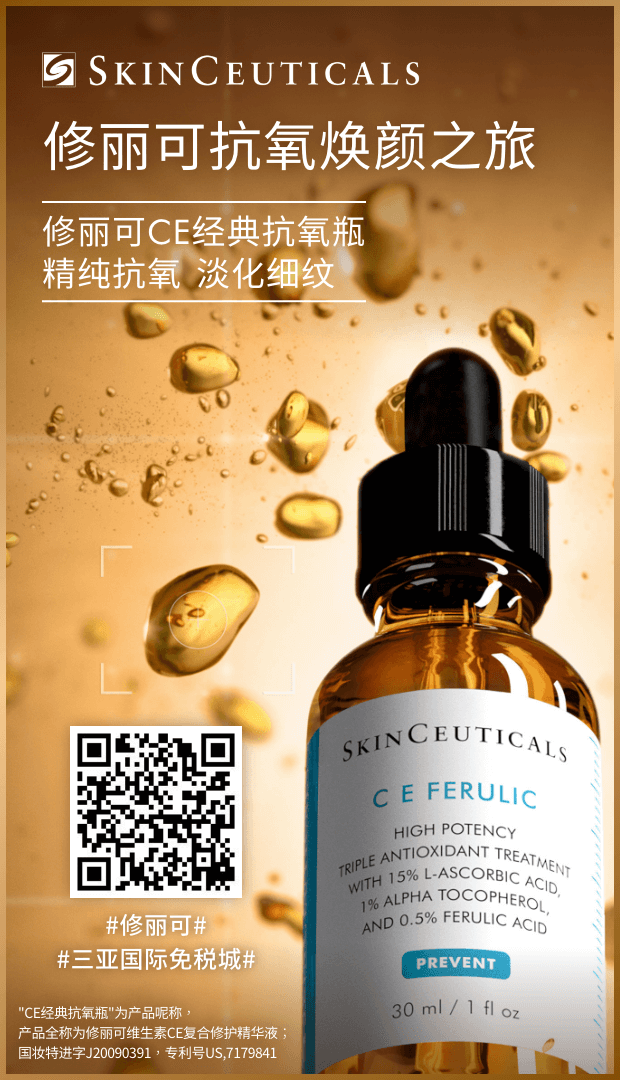
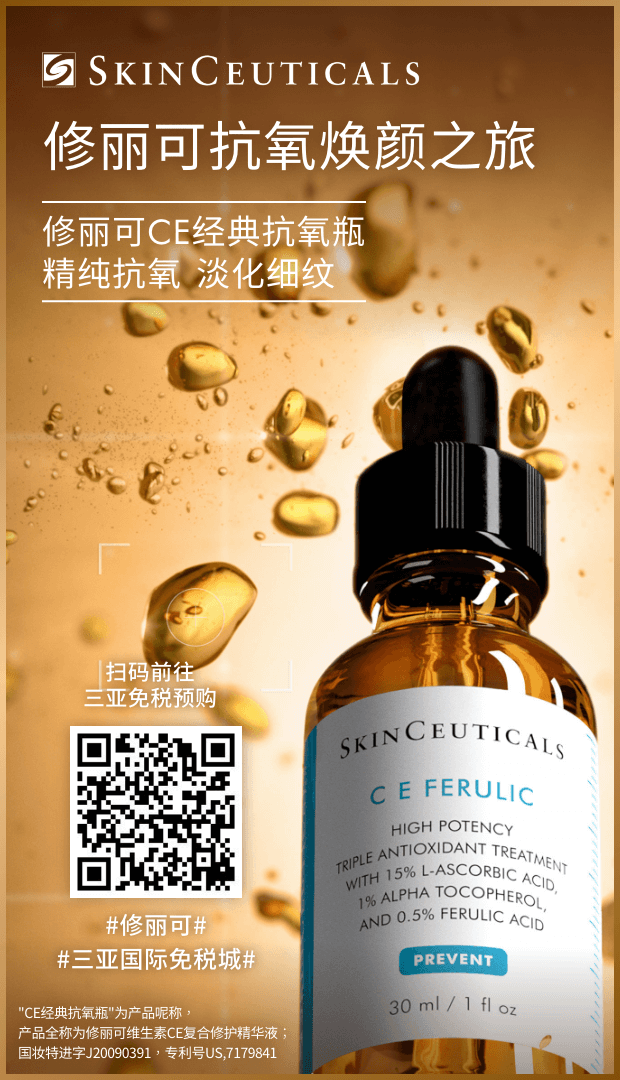
improve share page css issue

diff --git a/src/pages/SharePage/index.jsx b/src/pages/SharePage/index.jsx
@@ -19,6 +19,7 @@ import goldElementBg from '../../assets/prize_gold_element_bg.png';
 import prizeCardOutline from '../../assets/prize_card_outline.png';
 import prizeCardNoCamera from '../../assets/prize_card_no_camera.png';
 import shopBtn from '../../assets/shop_btn.png';
+import resultTag from '../../assets/result_tag.png';
 // const BrandLogo = `${config.assetsUrl}/Logo_white.png`;
 // const faceBefore = `${config.assetsUrl}/prize_face_picture_before.png`;
 // const faceAfter = `${config.assetsUrl}/prize_face_picture_after.png`;
@@ -119,10 +120,12 @@ const SharePage = () => {
             </div>
             <div id="img-group">
               <img id="skin-c-bottle" onLoad={() => onImageLoad('skin-c-bottle')} src={skinCBottle} />
-              <div id="hash-text">
+              <img id="hash-text" src={resultTag} />
+              {/* <div id="hash-text">
                 <p>#修丽可#</p>
                 <p>#三亚国际免税城#</p>
-              </div>
+              </div> */}
+              {/* <div id="qr-code-text">扫码前往<br />三亚免税预购</div> */}
               <img id="prize-card-qr-code" onLoad={() => onImageLoad('qr-code')} src={prizeCardQRcode} />
             </div>
           </div>
@@ -195,7 +198,7 @@ const SharePage = () => {
             </div>
           </div>
         </div>
-        <img id="shop-btn" src={shopBtn} onClick={() => window.open("https://m.cdfgsanya.com/wap/index.html#/tabs/index/skinceuticalsIndex?random=91904560019745118460",'_blank')}/>
+        <img id="shop-btn" src={shopBtn} onClick={() => window.open("https://ad.doubleclick.net/ddm/clk/485169250;292072506;i",'_blank')}/>
         {/* <a id="shop-btn" href="https://m.cdfgsanya.com/wap/index.html#/tabs/index/skinceuticalsIndex?random=91904560019745118460" target="_blank">
         </a> */}
       </section>

diff --git a/src/pages/SharePage/share.css b/src/pages/SharePage/share.css
@@ -118,10 +118,11 @@
   position: absolute;
   right: 1.2vh;
   bottom: 3vh;
-  width: 9vh;
-  height: 9vh;
-  max-width: 9vh;
-  max-height: 9vh;
+  width: 9.4vh;
+  height: 14.1vh;
+  max-width: 9.4vh;
+  max-height: 14.1vh;
+  z-index: 2;
 }
 
 #screen-share #selfie-filter {
@@ -160,10 +161,11 @@
 
 #screen-share #hash-text {
   position: absolute;
-  bottom: 9%;
+  bottom: 7%;
   /* bottom: 2.8vh; */
-  left: 49%;
+  left: 48.5%;
   transform: translate(-50%);
+  width: 16.45vh;
 }
 
 #screen-share #hash-text p {
@@ -272,16 +274,16 @@
   width: 13.1vh;
   height: 5.2vh;
   margin: 2.5vh;
+  display: flex;
+  justify-content: center;
+  align-items: center;
 }
 
 #screen-share .active-btn p {
-  position: absolute;
-  top: 50%;
-  left: 50%;
-  transform: translate(-50%, -50%);
   margin: 0;
   font-size: 2.4vh;
-  line-height: 3.5vh;
+  line-height: 4vh;
+  margin-top: 0.35vh;
 }
 
 #fix-loading {
@@ -353,9 +355,18 @@
   pointer-events: all !important;
   /* touch-action: auto !important; */
   position: fixed;
-  bottom: 0px;
-  right: 0px;
+  bottom: -2.5vh;
+  right: -1.6vh;
   z-index: 5;
-  width: 12.8vh;
-  height: 11.3vh;
+  width: 33.8vw;
+  height: 29.8vw;
+}
+
+#screen-share #qr-code-text {
+  position: absolute;
+  white-space: pre;
+  right: 1vh;
+  bottom: 12.5vh;
+  font-size: 1.5vh;
+  line-height: 2vh;
 }

diff --git a/src/pages/SelfiePage/index.jsx b/src/pages/SelfiePage/index.jsx
@@ -175,17 +175,18 @@ const SelfiePage = () => {
       // const y = selfieCanvas.offsetTop;
       canvas.width = width;
       canvas.height = height;
-      ehancedCanvas.width = width;
-      ehancedCanvas.height = height;
+      const scale = 2;
+      ehancedCanvas.width = width * scale;
+      ehancedCanvas.height = height * scale;
       const ctx = canvas.getContext('2d');
       const enhancedCtx = ehancedCanvas.getContext('2d');
       ctx.translate(canvas.width, 0);
       ctx.scale(-1,1);
       ctx.drawImage(input, x, y, width, height, 0, 0, width, height);
-      enhancedCtx.translate(canvas.width, 0);
+      enhancedCtx.translate(canvas.width * scale, 0);
       enhancedCtx.scale(-1,1);
-      enhancedCtx.drawImage(input, x, y, width, height, 0, 0, width, height);
-      const imageData = enhancedCtx.getImageData(0, 0, canvas.width, canvas.height);
+      enhancedCtx.drawImage(input, x, y, width, height, 0, 0, width * scale, height * scale);
+      const imageData = enhancedCtx.getImageData(0, 0, width * scale, height * scale);
       applyBrightness(imageData.data, 8);
       // applyContrast(imageData.data, 10);
       enhancedCtx.putImageData(imageData, 0, 0);
